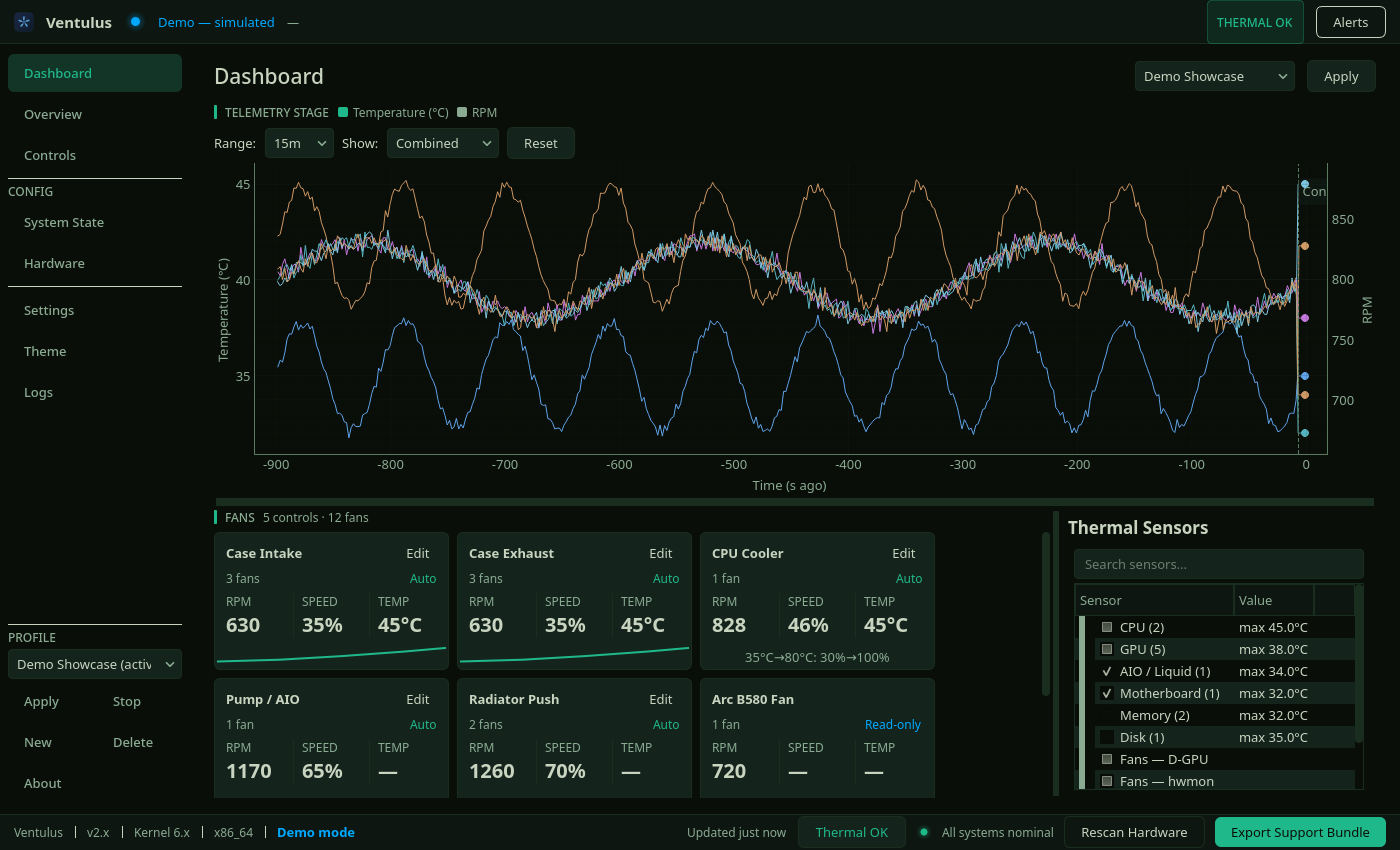
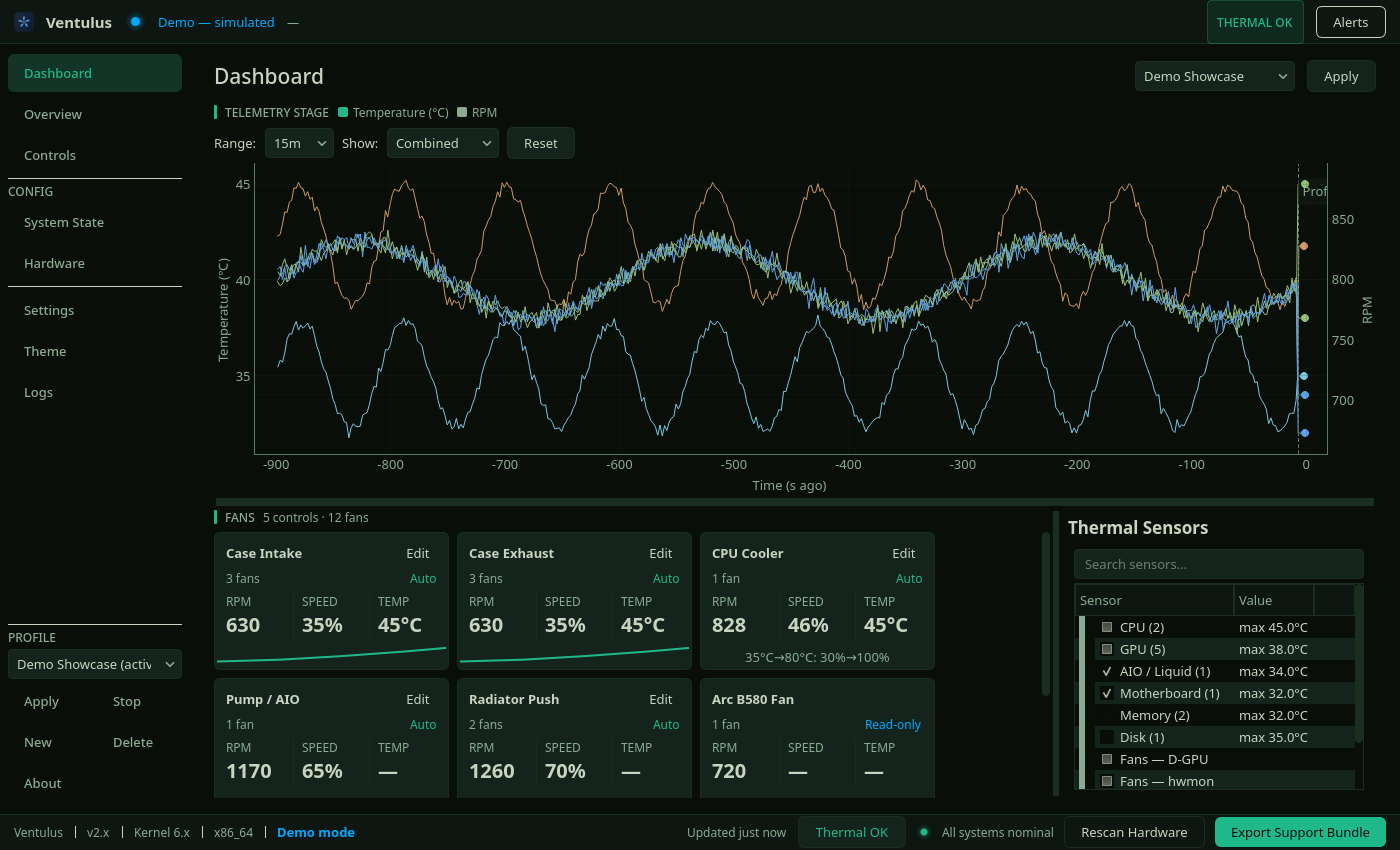
release: ventulus 5.0.1
Batch since v5.0.0: seven patch commits (UI and controls fixes), ten
none (docs, CI). Version moves to 5.0.1 in pyproject, PKGBUILD and the
README release line; [Unreleased] becomes [5.0.1]. The ventulusd floor
stays >= 3.0.0. Screenshots recaptured: the ribbon and Logs now show the
demo's active profile and the Dashboard series colours changed, so 01-08
are committed.

diff --git a/README.md b/README.md
@@ -2,7 +2,7 @@
 
 *Formerly Control-OFC (`control-ofc-gui`).*
 
-**Latest release:** v5.0.0 — 2026-10-10. Pairs with `ventulusd` ≥ v3.0.0; version numbers carry on from Control-OFC. Individual features gate on newer daemons and say so in the app when one is missing.
+**Latest release:** v5.0.1 — 2026-10-14. Pairs with `ventulusd` ≥ v3.0.0; version numbers carry on from Control-OFC. Individual features gate on newer daemons and say so in the app when one is missing.
 
 Ventulus is a fan control app for Linux desktops. You decide how each group of fans
 should respond to temperature; a background service, [`ventulusd`](https://github.com/Plan-B-Development/ventulusd),

diff --git a/CHANGELOG.md b/CHANGELOG.md
@@ -5,6 +5,11 @@ rename. Version numbers carry on from Control-OFC.
 
 ## [Unreleased]
 
+## [5.0.1] — 2026-10-14
+
+Pairs with `ventulusd` >= v3.0.0, which the package requires; ventulusd 5.0.0 is the current daemon release.
+A fix release: no new features.
+
 ### Fixed
 
 - **Discarding unsaved profile edits now discards them.** Choosing **Discard** when switching
